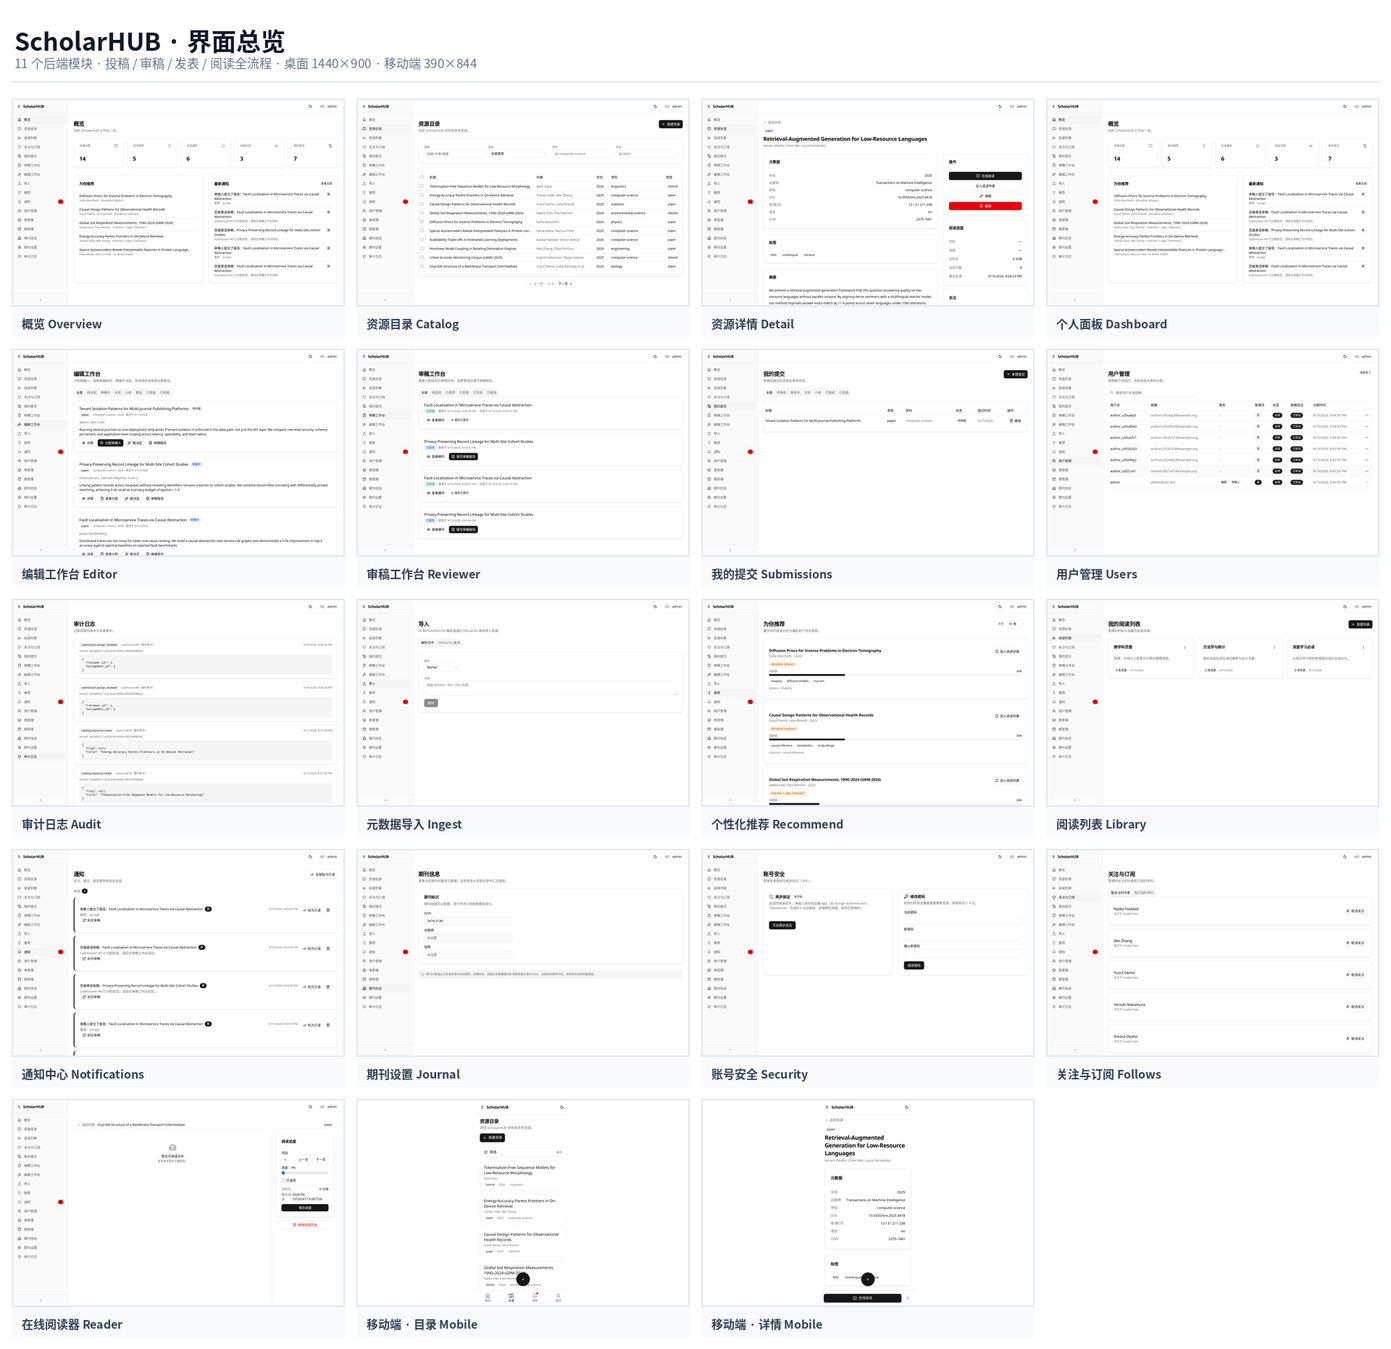
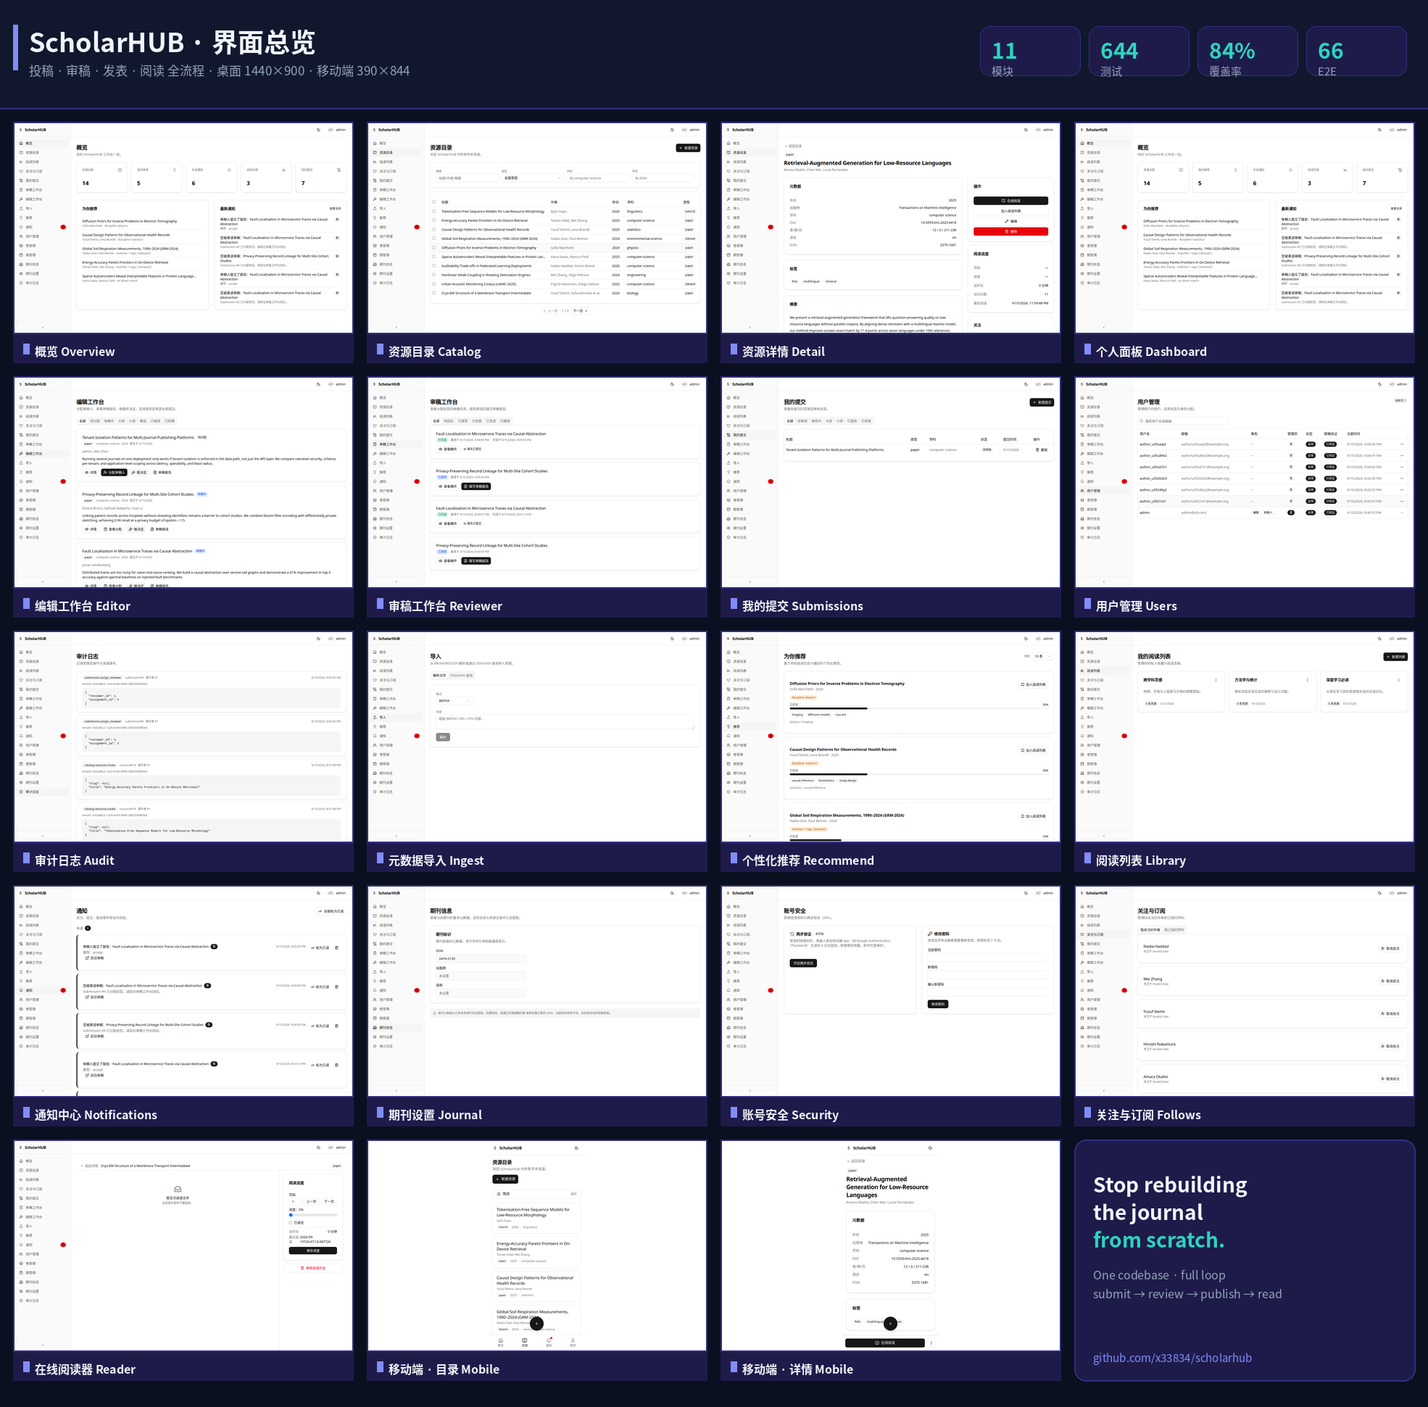
docs(readme): 三语 README 重做可视化 — 暗黑总览图 + 带说明截图画廊 + 修死链
- screenshots-overview.png 改暗黑品牌风(深空底 / 靛蓝紫 / 顶部数据条 / CTA 卡),
  contact_sheet.py 同步改版
- 新增按「阅读 / 发表 / 发现与运营」分组的 3x3 截图画廊,每张配一句话说明
- 修 3 处死链:ARCHITECTURE.md / DEPLOYMENT.md 实际在 docs/;补 SUPPORT.md
- 日文版修正过期项:TypeScript 5.9、多租户已实现、路线图已交付项勾选

diff --git a/apps/frontend/scripts/media/contact_sheet.py b/apps/frontend/scripts/media/contact_sheet.py
@@ -1,6 +1,8 @@
-"""把界面截图拼成一张总览图（README / 宣传物料用）。
+"""把界面截图拼成一张暗黑品牌风总览图（README / 宣传物料用）。
 
-输出 4 列网格，每格带标题条与细边框，桌面端 + 移动端混排。
+深空底 + 靛蓝紫品牌色，顶部带数据条，4 列网格、每格带标题条与细边框，
+桌面端 + 移动端混排。输出到仓库 docs/assets/screenshots-overview.png。
+
 用法：python3 scripts/media/contact_sheet.py
 """
 
@@ -11,9 +13,8 @@ from pathlib import Path
 
 from PIL import Image, ImageDraw, ImageFont
 
-SRC = Path("/workspace/scholarhub-media/screenshots")
-OUT = Path("/workspace/scholarhub-media/screenshots-overview.png")
-LOGO = Path("/workspace/scholarhub/docs/assets/logo.svg")
+SRC = Path("/workspace/scholarhub/docs/assets/screenshots")
+OUT = Path("/workspace/scholarhub/docs/assets/screenshots-overview.png")
 
 ITEMS = [
     ("01-home.png", "概览 Overview"),
@@ -38,18 +39,23 @@ ITEMS = [
 ]
 
 COLS = 4
-CELL_W = 460
-CAP_H = 42
+CELL_W = 470
+CAP_H = 40
 THUMB_H = CELL_W * 900 // 1440  # 桌面截图 1440×900 等比
-PAD = 16
-HEADER_H = 120
+PAD = 18
+HEADER_H = 150
 BORDER = 2
 
-BG = (255, 255, 255)
-FRAME = (226, 232, 240)
-CAP_BG = (248, 250, 252)
-INK = (15, 23, 42)
-MUTED = (100, 116, 139)
+# 暗黑品牌配色
+BG = (11, 16, 32)          # 深空底 #0B1020
+CARD = (17, 24, 46)        # 卡片底
+FRAME = (49, 46, 129)      # 靛蓝紫边框 #312E81
+CAP_BG = (30, 27, 75)      # 标题条 #1E1B4B
+CAP_BG2 = (49, 46, 129)
+INK = (241, 245, 249)      # 近白
+MUTED = (148, 163, 184)    # 石板灰
+ACCENT = (129, 140, 248)   # indigo-400
+ACCENT2 = (45, 212, 191)   # teal-400
 
 FONT_REG = "/usr/share/fonts/opentype/noto/NotoSansCJK-Regular.ttc"
 FONT_BOLD = "/usr/share/fonts/opentype/noto/NotoSansCJK-Bold.ttc"
@@ -59,29 +65,41 @@ def font(path: str, size: int) -> ImageFont.FreeTypeFont:
     return ImageFont.truetype(path, size)
 
 
+def _round_rect(draw, box, radius, fill=None, outline=None, width=1):
+    draw.rounded_rectangle(box, radius=radius, fill=fill, outline=outline, width=width)
+
+
 def main() -> None:
     present = [(f, label) for f, label in ITEMS if (SRC / f).exists()]
     rows = (len(present) + COLS - 1) // COLS
     W = COLS * (CELL_W + PAD) + PAD
-    H = HEADER_H + rows * (THUMB_H + CAP_H + PAD) + PAD
+    H = HEADER_H + PAD + rows * (THUMB_H + CAP_H + PAD) + PAD
 
     canvas = Image.new("RGB", (W, H), BG)
     draw = ImageDraw.Draw(canvas)
 
-    # ---- 标题区 ----
+    # ---- 顶部品牌带 ----
+    draw.rectangle([0, 0, W, HEADER_H], fill=CARD)
+    draw.line([0, HEADER_H - 1, W, HEADER_H - 1], fill=FRAME, width=2)
+    # 品牌色竖条
+    draw.rectangle([PAD, 34, PAD + 6, 96], fill=ACCENT)
+
+    draw.text((PAD + 22, 30), "ScholarHUB · 界面总览", font=font(FONT_BOLD, 36), fill=INK)
     draw.text(
-        (PAD + 4, 30),
-        "ScholarHUB · 界面总览",
-        font=font(FONT_BOLD, 34),
-        fill=INK,
-    )
-    draw.text(
-        (PAD + 4, 74),
-        "11 个后端模块 · 投稿 / 审稿 / 发表 / 阅读全流程 · 桌面 1440×900 · 移动端 390×844",
+        (PAD + 22, 84),
+        "投稿 · 审稿 · 发表 · 阅读 全流程 · 桌面 1440×900 · 移动端 390×844",
         font=font(FONT_REG, 17),
         fill=MUTED,
     )
-    draw.line((PAD, HEADER_H - 8, W - PAD, HEADER_H - 8), fill=FRAME, width=2)
+
+    # ---- 右侧数据条 ----
+    stats = [("11", "模块"), ("644", "测试"), ("84%", "覆盖率"), ("66", "E2E")]
+    sx = W - PAD - (4 * 150)
+    for i, (big, small) in enumerate(stats):
+        x = sx + i * 150
+        _round_rect(draw, [x, 36, x + 138, 104], radius=14, fill=CAP_BG, outline=FRAME, width=1)
+        draw.text((x + 16, 46), big, font=font(FONT_BOLD, 30), fill=ACCENT2)
+        draw.text((x + 16, 86), small, font=font(FONT_REG, 15), fill=MUTED)
 
     cap_font = font(FONT_BOLD, 16)
     for i, (fname, label) in enumerate(present):
@@ -91,7 +109,6 @@ def main() -> None:
         inner_h = THUMB_H - BORDER * 2
 
         if fname.startswith("mobile"):
-            # 移动端是竖版，contain 到底部居中，两侧留白
             scale = min(inner_w / sw, inner_h / sh)
             nw, nh = max(1, int(sw * scale)), max(1, int(sh * scale))
             thumb = src.resize((nw, nh), Image.LANCZOS)
@@ -104,17 +121,58 @@ def main() -> None:
         cell.paste(tile, (BORDER, BORDER))
         cd = ImageDraw.Draw(cell)
         cd.rectangle([0, THUMB_H, CELL_W, THUMB_H + CAP_H], fill=CAP_BG)
-        cd.text((14, THUMB_H + 11), label, font=cap_font, fill=(51, 65, 85))
+        # 标题条左侧强调点
+        cd.rectangle([14, THUMB_H + 13, 22, THUMB_H + 27], fill=ACCENT)
+        cd.text((30, THUMB_H + 11), label, font=cap_font, fill=INK)
 
         col, row = i % COLS, i // COLS
         x = PAD + col * (CELL_W + PAD)
         y = HEADER_H + PAD + row * (THUMB_H + CAP_H + PAD)
         canvas.paste(cell, (x, y))
 
+    # ---- 末行空格填一张品牌 CTA 卡 ----
+    total_cells = rows * COLS
+    if len(present) < total_cells:
+        i = len(present)
+        col, row = i % COLS, i // COLS
+        x = PAD + col * (CELL_W + PAD)
+        y = HEADER_H + PAD + row * (THUMB_H + CAP_H + PAD)
+        _round_rect(
+            draw,
+            [x, y, x + CELL_W, y + THUMB_H + CAP_H],
+            radius=16,
+            fill=CAP_BG,
+            outline=FRAME,
+            width=2,
+        )
+        tx = x + 26
+        draw.text((tx, y + 40), "Stop rebuilding", font=font(FONT_BOLD, 28), fill=INK)
+        draw.text((tx, y + 78), "the journal", font=font(FONT_BOLD, 28), fill=INK)
+        draw.text((tx, y + 116), "from scratch.", font=font(FONT_BOLD, 28), fill=ACCENT2)
+        draw.text(
+            (tx, y + 174),
+            "One codebase · full loop",
+            font=font(FONT_REG, 16),
+            fill=MUTED,
+        )
+        draw.text(
+            (tx, y + 200),
+            "submit → review → publish → read",
+            font=font(FONT_REG, 16),
+            fill=MUTED,
+        )
+        # 底部品牌条
+        draw.text(
+            (tx, y + THUMB_H + CAP_H - 44),
+            "github.com/x33834/scholarhub",
+            font=font(FONT_REG, 15),
+            fill=ACCENT,
+        )
+
     OUT.parent.mkdir(parents=True, exist_ok=True)
     canvas.save(OUT, optimize=True)
     size_kb = os.path.getsize(OUT) // 1024
-    print(f"总览图: {OUT}  {W}×{H}  {len(present)} 张  {size_kb} KB")
+    print(f"总览图: {OUT}  {W}x{H}  {len(present)} 张  {size_kb} KB")
 
 
 if __name__ == "__main__":

diff --git a/README.ja.md b/README.ja.md
@@ -14,12 +14,12 @@
 [![Python](https://img.shields.io/badge/python-3.12+-3776AB.svg?logo=python&logoColor=white&style=flat-square)](https://www.python.org/)
 [![FastAPI](https://img.shields.io/badge/FastAPI-0.115+-009688.svg?logo=fastapi&logoColor=white&style=flat-square)](https://fastapi.tiangolo.com/)
 [![React](https://img.shields.io/badge/React-19-61DAFB.svg?logo=react&logoColor=white&style=flat-square)](https://react.dev/)
-[![TypeScript](https://img.shields.io/badge/TypeScript-5.7-3178C6.svg?logo=typescript&logoColor=white&style=flat-square)](https://www.typescriptlang.org/)
+[![TypeScript](https://img.shields.io/badge/TypeScript-5.9-3178C6.svg?logo=typescript&logoColor=white&style=flat-square)](https://www.typescriptlang.org/)
 [![PostgreSQL](https://img.shields.io/badge/PostgreSQL-17-4169E1.svg?logo=postgresql&logoColor=white&style=flat-square)](https://www.postgresql.org/)
 [![Tailwind CSS](https://img.shields.io/badge/Tailwind_CSS-v4-06B6D4.svg?logo=tailwindcss&logoColor=white&style=flat-square)](https://tailwindcss.com/)
 [![Docker](https://img.shields.io/badge/Docker-Compose-2496ED.svg?logo=docker&logoColor=white&style=flat-square)](https://docs.docker.com/compose/)
 
-[![Modules](https://img.shields.io/badge/modules-11-6366F1?style=flat-square)](ARCHITECTURE.md)
+[![Modules](https://img.shields.io/badge/modules-11-6366F1?style=flat-square)](docs/ARCHITECTURE.md)
 [![Unit tests](https://img.shields.io/badge/unit_tests-644-10B981?style=flat-square&logo=pytest&logoColor=white)](#テスト)
 [![Coverage](https://img.shields.io/badge/coverage-84%25-2C5AA0?style=flat-square)](#テスト)
 [![E2E](https://img.shields.io/badge/E2E_specs-66-22C55E?style=flat-square&logo=playwright&logoColor=white)](#テスト)
@@ -69,15 +69,47 @@ ScholarHUB の全機能はこの三つのユーザーを中心に設計されて
 
 ### 実際の画面
 
+> すべて**実機キャプチャ**——デスクトップ 1440×900 · モバイル 390×844。ヒーロー画像をクリックすると 60 秒ツアーが再生されます。
+
 <div align="center">
 
 <a href="docs/assets/demo/ScholarHUB-promo.webm">
-<img src="docs/assets/screenshots-overview.png" alt="ScholarHUB 画面一覧 —— カタログ、査読ワークベンチ、推薦、読書リスト、リーダー" width="900" />
+<img src="docs/assets/screenshots-overview.png" alt="ScholarHUB 画面一覧 —— カタログ、査読ワークベンチ、出版、推薦、読書リスト、リーダー 全 19 点" width="940" />
 </a>
 
-**▶ [60 秒ツアー](docs/assets/demo/ScholarHUB-promo.webm)** · [スクリーンショット 19 点](docs/assets/screenshots)
+**▶ [60 秒ツアーを見る](docs/assets/demo/ScholarHUB-promo.webm)** · [スクリーンショット 19 点](docs/assets/screenshots)
 
 </div>
+
+#### 読む — 発見・確認・その場で閲覧
+
+<table>
+<tr>
+<td width="33%" align="center"><img src="docs/assets/screenshots/02-catalog.png" alt="カタログ" width="100%" /><br /><sub><b>カタログ</b> — 出版済み作品のファセット検索</sub></td>
+<td width="33%" align="center"><img src="docs/assets/screenshots/03-resource-detail.png" alt="リソース詳細" width="100%" /><br /><sub><b>リソース詳細</b> — メタデータ・DOI・要旨・ファイル</sub></td>
+<td width="33%" align="center"><img src="docs/assets/screenshots/17-reader.png" alt="ブラウザ内リーダー" width="100%" /><br /><sub><b>リーダー</b> — ブラウザ内 PDF・進捗同期</sub></td>
+</tr>
+</table>
+
+#### 出版する — 著者 → 編集者 → 査読者のループ
+
+<table>
+<tr>
+<td width="33%" align="center"><img src="docs/assets/screenshots/07-my-submissions.png" alt="マイ投稿" width="100%" /><br /><sub><b>著者</b> — 投稿・改訂・ステータス</sub></td>
+<td width="33%" align="center"><img src="docs/assets/screenshots/05-editor-workbench.png" alt="編集ワークベンチ" width="100%" /><br /><sub><b>編集者</b> — 査読者割当・判断・出版</sub></td>
+<td width="33%" align="center"><img src="docs/assets/screenshots/06-reviewer-workbench.png" alt="査読ワークベンチ" width="100%" /><br /><sub><b>査読者</b> — 原稿閲覧・報告提出</sub></td>
+</tr>
+</table>
+
+#### 発見と運用 — パーソナル・管理
+
+<table>
+<tr>
+<td width="33%" align="center"><img src="docs/assets/screenshots/11-recommendations.png" alt="おすすめ" width="100%" /><br /><sub><b>おすすめ</b> — 閲読履歴に基づくランキング</sub></td>
+<td width="33%" align="center"><img src="docs/assets/screenshots/12-library.png" alt="読書リスト" width="100%" /><br /><sub><b>読書リスト</b> — 保存とデバイス間の進捗</sub></td>
+<td width="33%" align="center"><img src="docs/assets/screenshots/08-admin-users.png" alt="管理" width="100%" /><br /><sub><b>管理</b> — ユーザー・ロール・監査ログ</sub></td>
+</tr>
+</table>
 
 1. 著者が完全なメタデータを入力して原稿を投稿
 2. 編集者が査読者を割り当て、査読者は承諾または辞退
@@ -153,7 +185,7 @@ ScholarHUB の全機能はこの三つのユーザーを中心に設計されて
 | 層 | 選択 |
 |---|---|
 | フレームワーク | React 19 |
-| 言語 | TypeScript 5.7 |
+| 言語 | TypeScript 5.9 |
 | ビルド | Vite 7 |
 | ルーター | TanStack Router v1(file-based + autoCodeSplitting) |
 | データ | TanStack Query v5 |
@@ -286,7 +318,7 @@ scholarhub/
 | `SCHOLARHUB_PREVIOUS_SECRET_KEYS` | | ローテーションウィンドウ中の旧 JWT 署名キー(カンマ区切り) |
 | `SCHOLARHUB_ADMIN_PASSWORD` | ✓ | 初回起動時の admin パスワード、12 文字以上 |
 | `SCHOLARHUB_DATABASE_URL` | | PostgreSQL DSN、デフォルト `postgresql+asyncpg://scholarhub:scholarhub@localhost:5432/scholarhub` |
-| `SCHOLARHUB_TENANCY_MODE` | | `single`(デフォルト)/ `multi`(host-header 解決、未実装) |
+| `SCHOLARHUB_TENANCY_MODE` | | `single`(デフォルト)/ `multi`(host-header による解決、キャッシュ付き) |
 | `SCHOLARHUB_ENVIRONMENT` | | `development`(デフォルト)/ `staging` / `production` / `test` |
 | `SCHOLARHUB_FRONTEND_BASE_URL` | | メール内ディープリンク用の SPA オリジン、例 `https://app.yourdomain.com` |
 | `SCHOLARHUB_OIDC_ENABLED` | | `true` で OIDC SSO を有効化(`OIDC_*` 変数と併用); `/api/auth/oidc/providers` も参照 |
@@ -406,11 +438,11 @@ CI ワークフロー: [`.github/workflows/ci.yml`](.github/workflows/ci.yml)。
 - [x] 学科/サブ学科 ontology テーブル — shipped
 - [x] Crossref リッチ化 (出版社/雑誌略称/巻/号/ページ/ISSN) — shipped
 - [x] プライバシーページ + cookie consent banner + 保持ポリシー — shipped
-- [ ] マルチテナントモードの実装(host-header → テナントマッピングテーブル)
+- [x] マルチテナントモード(host-header → テナントマッピングテーブル) — shipped
 - [ ] refresh token の明示的 denylist
-- [ ] WebAuthn / passkeys による TOTP 2FA の代替
+- [x] WebAuthn / passkeys による二要素認証の強化 — shipped
 - [ ] 高度な巻号管理 UI
-- [ ] DOI 登録と相互リンク
+- [x] DOI 登録と相互リンク — shipped
 - [ ] フルテキスト検索(PostgreSQL FTS または Meilisearch)
 - [ ] ファイルストレージをローカルから S3 に切替
 - [ ] ワークフロー可視化(投稿 → 査読 → 採用)

diff --git a/README.md b/README.md
@@ -22,14 +22,14 @@
 [![Tailwind CSS](https://img.shields.io/badge/Tailwind_CSS-v4-06B6D4.svg?logo=tailwindcss&logoColor=white&style=flat-square)](https://tailwindcss.com/)
 [![Docker](https://img.shields.io/badge/Docker--Compose-2496ED.svg?logo=docker&logoColor=white&style=flat-square)](https://docs.docker.com/compose/)
 
-[![Modules](https://img.shields.io/badge/modules-11-6366F1?style=flat-square)](ARCHITECTURE.md)
+[![Modules](https://img.shields.io/badge/modules-11-6366F1?style=flat-square)](docs/ARCHITECTURE.md)
 [![Unit tests](https://img.shields.io/badge/unit_tests-644-10B981?style=flat-square&logo=pytest&logoColor=white)](#testing)
 [![Coverage](https://img.shields.io/badge/coverage-84%25-2C5AA0?style=flat-square)](#testing)
 [![E2E](https://img.shields.io/badge/E2E_specs-66-22C55E?style=flat-square&logo=playwright&logoColor=white)](#testing)
 [![Mypy](https://img.shields.io/badge/mypy-strict-0E7490?style=flat-square&logo=python&logoColor=white)](#testing)
 [![Status](https://img.shields.io/badge/status-pre--alpha-F59E0B?style=flat-square)](#status)
 
-**[Why](#why-scholarhub) · [What's inside](#whats-inside) · [Architecture](#architecture) · [Quick start](#quick-start) · [Testing](#testing) · [Docs](#docs) · [Contributing](#contributing)**
+**[Why](#why-scholarhub) · [Screenshots](#screenshots) · [What's inside](#whats-inside) · [Architecture](#architecture) · [Quick start](#quick-start) · [Testing](#testing) · [Docs](#docs) · [Contributing](#contributing)**
 
 </div>
 
@@ -50,17 +50,49 @@ Most teams rebuild the same journal scaffold from scratch — submission forms, 
 <img src="docs/assets/workflow.svg" alt="Submit → review → publish → read workflow" width="900" />
 </div>
 
-### See it running
+## Screenshots
+
+> Real captures from the running app — **desktop 1440×900 · mobile 390×844**. Click the hero image for the 60-second tour.
 
 <div align="center">
 
 <a href="docs/assets/demo/ScholarHUB-promo.webm">
-<img src="docs/assets/screenshots-overview.png" alt="ScholarHUB interface overview — catalog, review workbench, recommendations, library, reader" width="900" />
+<img src="docs/assets/screenshots-overview.png" alt="ScholarHUB interface overview — 19 screens across catalog, review, publication, recommendations, library and reader" width="940" />
 </a>
 
 **▶ [Watch the 60-second tour](docs/assets/demo/ScholarHUB-promo.webm)** · [all 19 screenshots](docs/assets/screenshots)
 
 </div>
+
+### Read — discover, inspect, read in place
+
+<table>
+<tr>
+<td width="33%" align="center"><img src="docs/assets/screenshots/02-catalog.png" alt="Catalog" width="100%" /><br /><sub><b>Catalog</b> — faceted search over published work</sub></td>
+<td width="33%" align="center"><img src="docs/assets/screenshots/03-resource-detail.png" alt="Resource detail" width="100%" /><br /><sub><b>Resource detail</b> — metadata, DOI, abstract, files</sub></td>
+<td width="33%" align="center"><img src="docs/assets/screenshots/17-reader.png" alt="In-browser reader" width="100%" /><br /><sub><b>Reader</b> — in-browser PDF with synced progress</sub></td>
+</tr>
+</table>
+
+### Publish — the author → editor → reviewer loop
+
+<table>
+<tr>
+<td width="33%" align="center"><img src="docs/assets/screenshots/07-my-submissions.png" alt="My submissions" width="100%" /><br /><sub><b>Author</b> — submissions, revisions and status</sub></td>
+<td width="33%" align="center"><img src="docs/assets/screenshots/05-editor-workbench.png" alt="Editor workbench" width="100%" /><br /><sub><b>Editor</b> — assign reviewers, decide, publish</sub></td>
+<td width="33%" align="center"><img src="docs/assets/screenshots/06-reviewer-workbench.png" alt="Reviewer workbench" width="100%" /><br /><sub><b>Reviewer</b> — read manuscripts, file reports</sub></td>
+</tr>
+</table>
+
+### Discover &amp; operate — personal &amp; admin
+
+<table>
+<tr>
+<td width="33%" align="center"><img src="docs/assets/screenshots/11-recommendations.png" alt="Recommendations" width="100%" /><br /><sub><b>Recommendations</b> — ranked by your reading history</sub></td>
+<td width="33%" align="center"><img src="docs/assets/screenshots/12-library.png" alt="Personal library" width="100%" /><br /><sub><b>Library</b> — reading lists, cross-device progress</sub></td>
+<td width="33%" align="center"><img src="docs/assets/screenshots/08-admin-users.png" alt="Admin shell" width="100%" /><br /><sub><b>Admin</b> — users, roles and audit log</sub></td>
+</tr>
+</table>
 
 ## What's inside
 
@@ -178,7 +210,7 @@ Quality is enforced in CI, not just claimed:
 - **Backend** — **644** `pytest` cases at **84% line coverage** with a hard `--cov-fail-under=80` gate; `mypy --strict` and `ruff` clean.
 - **Frontend** — `vitest` unit + component tests under strict `tsc` (**100** cases).
 - **E2E** — **66 Playwright specs** exercising the real submit → review → publish → read workflow against a spawned test server (no flaky production parity).
-- **CI** — backend, frontend, and e2E jobs on every push; strict pytest markers; a version-consistency guard keeps `VERSION` / `pyproject` / `package.json` / `__version__` in lockstep.
+- **CI** — backend, frontend, and e2e jobs on every push; strict pytest markers; a version-consistency guard keeps `VERSION` / `pyproject` / `package.json` / `__version__` in lockstep.
 
 ```bash
 # Backend
@@ -193,8 +225,8 @@ cd apps/frontend && E2E_SPAWN_SERVER=1 npx playwright test
 
 ## Docs
 
-- [Architecture](ARCHITECTURE.md) · [Deployment](DEPLOYMENT.md) · [Integrations](docs/integrations.md)
-- [Contributing](CONTRIBUTING.md) · [Security](SECURITY.md) · [Code of Conduct](CODE_OF_CONDUCT.md) · [Changelog](CHANGELOG.md)
+- [Architecture](docs/ARCHITECTURE.md) · [Deployment](docs/DEPLOYMENT.md) · [Integrations](docs/integrations.md)
+- [Contributing](CONTRIBUTING.md) · [Security](SECURITY.md) · [Code of Conduct](CODE_OF_CONDUCT.md) · [Support](SUPPORT.md) · [Changelog](CHANGELOG.md)
 
 ## Contributing
 

diff --git a/CHANGELOG.md b/CHANGELOG.md
@@ -26,6 +26,19 @@
 - `e2e_run_server.py` 支持 `E2E_KEEP_DB=1` 保留既有数据库:截图/录屏场景需要
   "先灌演示数据再重启后端加载新代码",默认行为(每次重建)不变。
 
+### Changed
+
+- **README 三语版(EN / 简体中文 / 日本語)重做可视化与表述**:
+  - `docs/assets/screenshots-overview.png` 换为**暗黑品牌风**总览图——深空底 +
+    靛蓝紫、顶部「11 模块 / 644 测试 / 84% 覆盖率 / 66 E2E」数据条、末行品牌
+    CTA 卡填满网格,`contact_sheet.py` 同步改版;
+  - 新增**带说明的截图画廊**:按「阅读 / 发表 / 发现与运营」三段、每段 3 张关键
+    页面,用 3 栏表格内联展示并配一句话说明,把最重要的页面直接可视化;
+  - 修复 3 处死链:`ARCHITECTURE.md` / `DEPLOYMENT.md` 实际位于 `docs/`,补全路径;
+    文档索引补上漏掉的 `SUPPORT.md`;
+  - 日文版同步修正过期项:TypeScript 5.7 → 5.9、多租户标注「未实现」→ 已实现、
+    路线图中已交付的多租户 / Passkey / DOI 由 `[ ]` 改为 `[x]`。
+
 ### Fixed
 
 - 修复 CI 首跑 4 个 job 全红的四处问题,实现"推上去即全绿":
